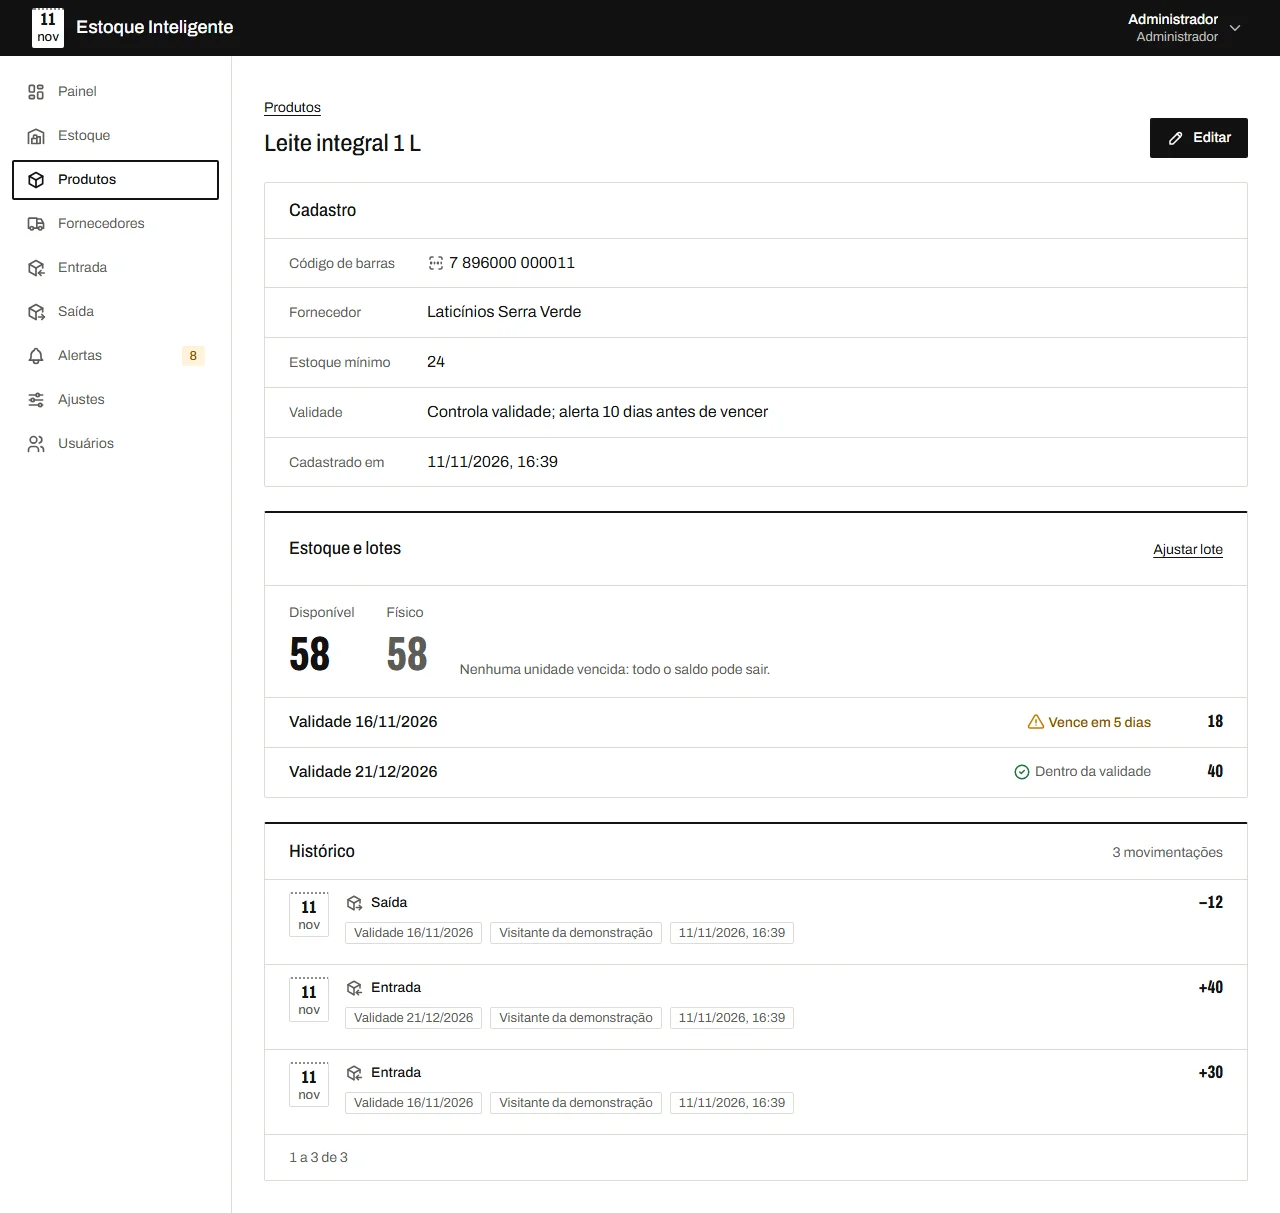
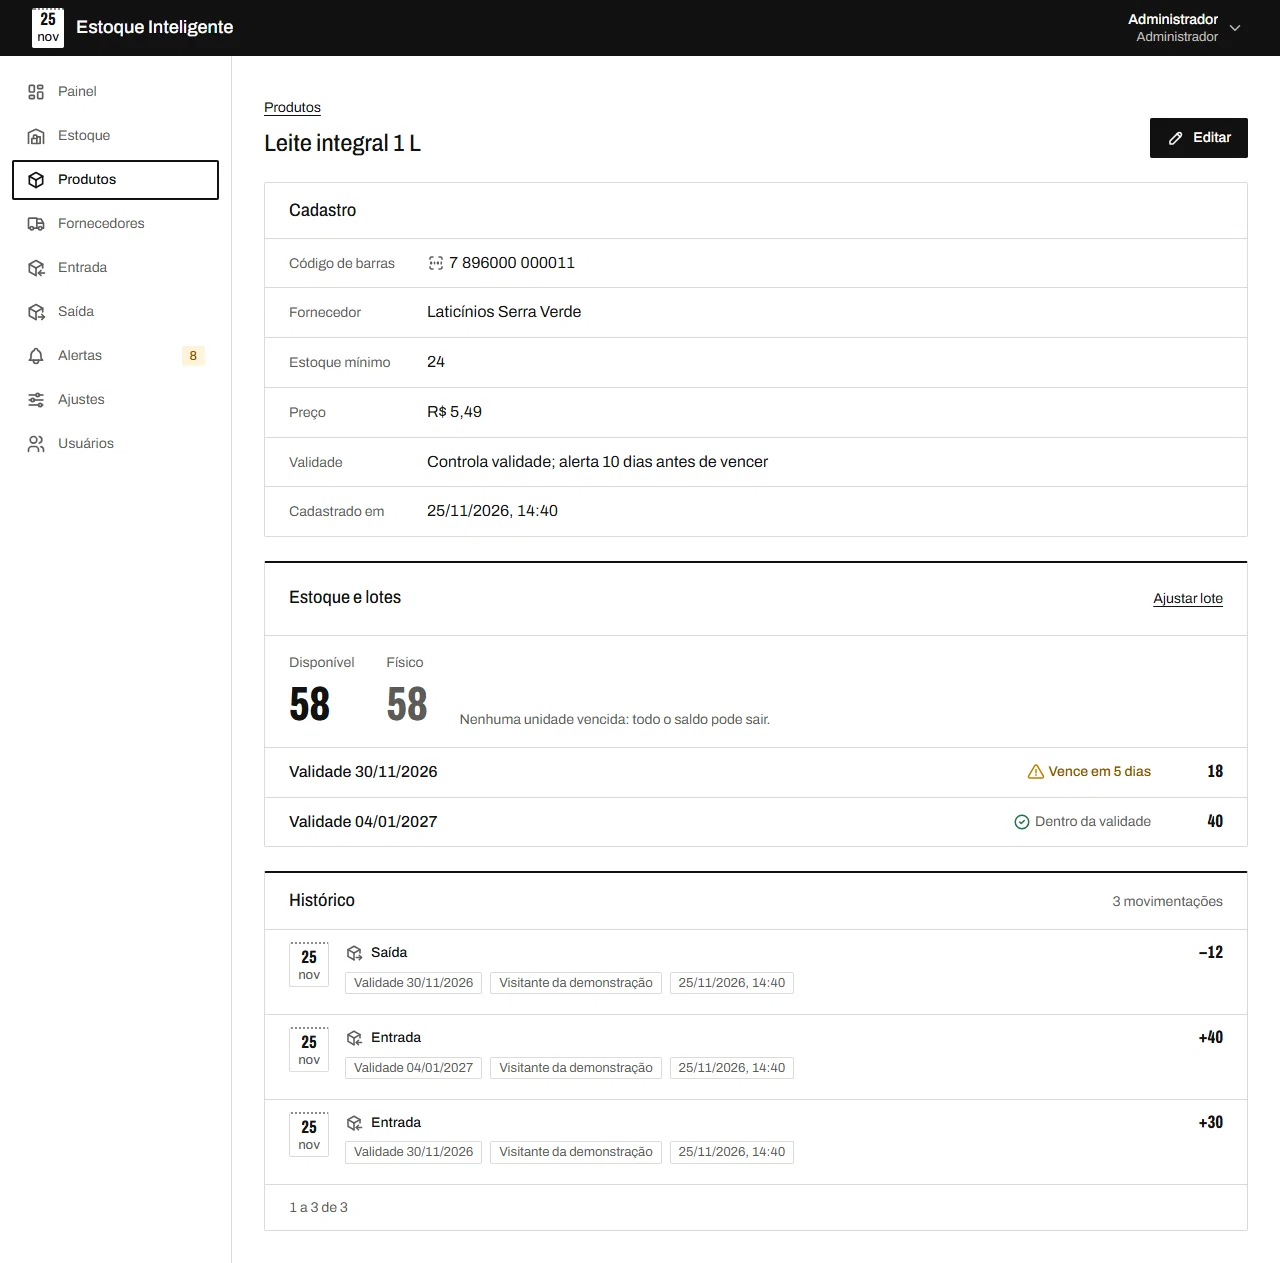
docs: atualiza as capturas de tela do README

diff --git a/README.md b/README.md
@@ -34,23 +34,23 @@ Na tela de login, o botão "Entrar como demonstração" entra direto, sem digita
 
 ## Capturas de tela
 
-| Painel, com a régua de vencimentos | Estoque, com a situação de cada produto |
+| Painel, com os vencimentos dos próximos 21 dias | Estoque, com saldo, mínimo e situação |
 |---|---|
-| ![Painel com os números de estoque baixo, a vencer e vencidos, a régua dos próximos 21 dias com os dias de vencimento circulados e as últimas movimentações](docs/imagens/painel.webp) | ![Lista de estoque com busca, filtros Todos, Estoque baixo e Sem estoque, e saldo, mínimo e situação de cada produto](docs/imagens/estoque.webp) |
+| ![Painel com 4 produtos em estoque baixo (1 sem estoque), 4 lotes a vencer e nenhum vencido, a régua dos próximos 21 dias com hoje em placa preta e 4 dias de vencimento circulados, e as últimas movimentações](docs/imagens/painel.webp) | ![Estoque com os filtros Todos, Estoque baixo e Sem estoque, a busca por nome ou código de barras e 12 produtos com saldo disponível, mínimo e situação: em dia, estoque baixo ou sem estoque](docs/imagens/estoque.webp) |
 
-| Detalhe do produto, com lotes e histórico | Entrada pelo código de barras |
+| Detalhe do produto, com preço, lotes e histórico | Entrada, com o código de barras lido |
 |---|---|
-| ![Detalhe do Leite integral 1 L com o cadastro, o saldo disponível e físico, dois lotes com a validade de cada um e o histórico de movimentações](docs/imagens/produto-detalhe.webp) | ![Tela de entrada com o código de barras lido, o produto encontrado, o saldo disponível e os campos de quantidade e validade](docs/imagens/entrada.webp) |
+| ![Detalhe do Leite integral 1 L com o cadastro (código de barras, fornecedor, estoque mínimo, preço e validade), saldo disponível e físico de 58, dois lotes, um que vence em 5 dias e outro dentro da validade, e o histórico com uma saída e duas entradas](docs/imagens/produto-detalhe.webp) | ![Entrada com o código de barras lido, o Leite integral 1 L encontrado com 58 disponíveis, a quantidade 30 preenchida, o campo de validade ainda vazio e o botão Registrar entrada](docs/imagens/entrada.webp) |
 
-| Alertas de vencimento e estoque baixo | Usuários (só admin) |
+| Alertas ativos, com filtro por tipo | Usuários, com perfil e situação (só admin) |
 |---|---|
-| ![Lista de alertas ativos com filtros por tipo: sem estoque, vencimento próximo com a validade do lote e estoque baixo](docs/imagens/alertas.webp) | ![Lista de usuários com perfil, situação e as ações de editar e definir nova senha](docs/imagens/usuarios.webp) |
+| ![Alertas com os filtros Todos, Vencido, Vencimento próximo e Estoque baixo, a opção Mostrar resolvidos e 8 alertas ativos: 1 sem estoque, 4 de vencimento próximo com a validade do lote e 3 de estoque baixo](docs/imagens/alertas.webp) | ![Usuários com duas contas de exemplo ativas, um administrador e um operador, o botão Cadastrar usuário e as ações Editar e Definir nova senha](docs/imagens/usuarios.webp) |
 
 No celular (390 px), com a folha do mês e a barra inferior:
 
-| Painel, com a régua virada folha do mês | Alertas, com a barra inferior |
+| Painel, com os vencimentos em três semanas | Alertas, com os filtros em grade |
 |---|---|
-| ![Painel no celular com a régua de vencimentos em três semanas de sete dias e a barra inferior com Painel, Entrada, Saída, Alertas e Mais](docs/imagens/painel-celular.webp) | ![Alertas no celular com os filtros em grade de dois por dois e a barra inferior com Alertas marcado](docs/imagens/alertas-celular.webp) |
+| ![Painel no celular com os números de estoque baixo, a vencer e vencidos, os vencimentos em três semanas de sete dias com 4 dias circulados, as últimas movimentações e a barra inferior com Painel marcado](docs/imagens/painel-celular.webp) | ![Alertas no celular com os filtros em grade de dois por dois, 8 alertas ativos e a barra inferior com Alertas marcado e o número 8](docs/imagens/alertas-celular.webp) |
 
 ## Destaques
 
